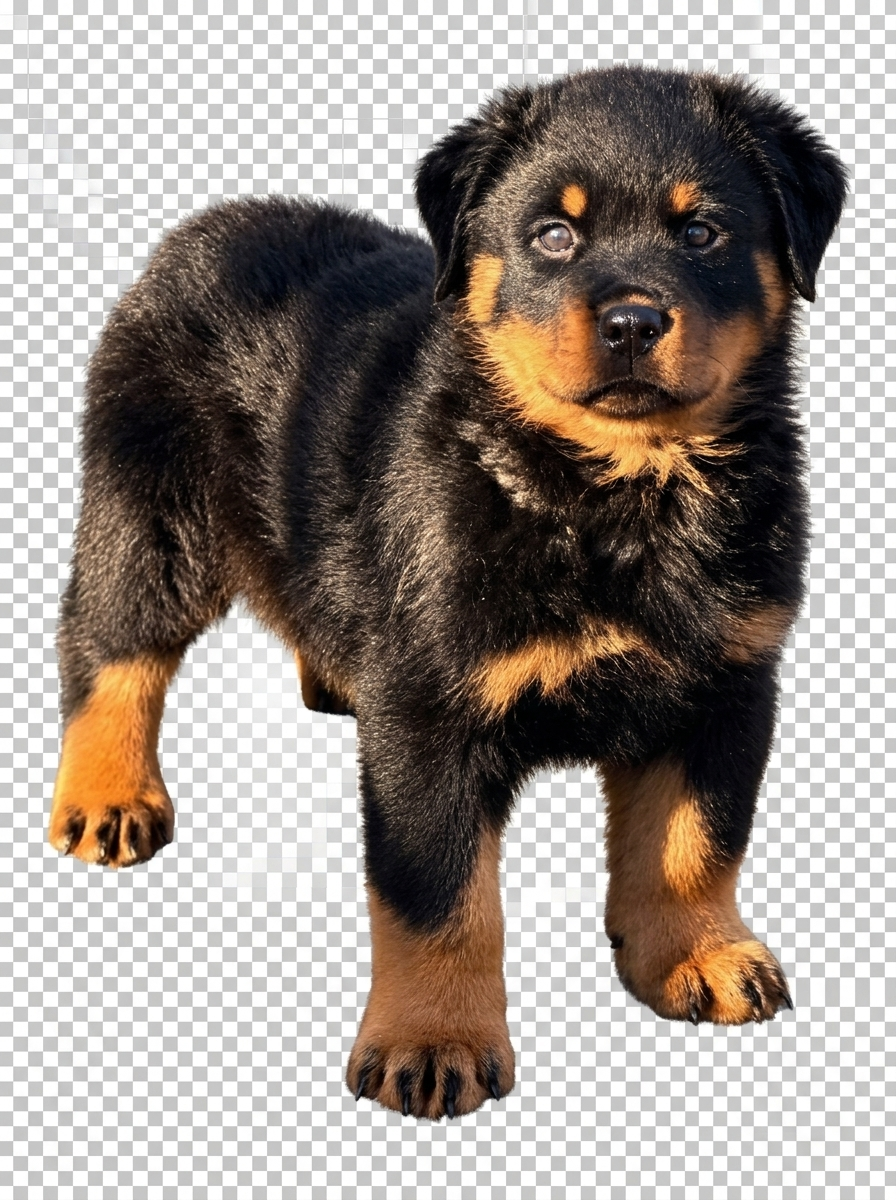
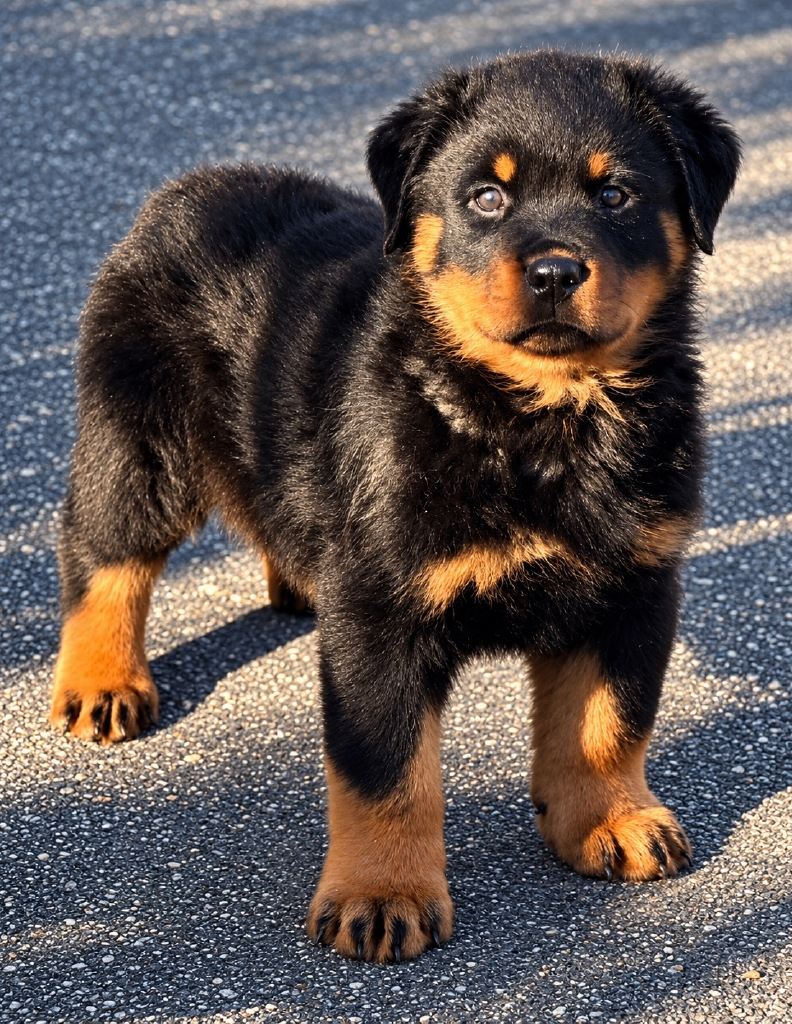
fix: use original hero photo with CSS gradient blending to remove bg visually

diff --git a/src/components/Hero.jsx b/src/components/Hero.jsx
@@ -29,11 +29,15 @@ export default function Hero() {
         .hero-dog {
           position: absolute; top: 0; right: 0;
           height: 100%; width: 100%;
-          object-fit: contain; object-position: center bottom;
+          object-fit: cover; object-position: center top;
         }
         .hero-img-fade {
           position: absolute; inset: 0; pointer-events: none;
-          background: linear-gradient(to right, var(--background) 0%, rgba(31,31,31,0.7) 10%, transparent 20%);
+          background:
+            linear-gradient(to right,  var(--background) 0%, rgba(10,10,10,0.85) 12%, transparent 30%),
+            linear-gradient(to left,   var(--background) 0%, rgba(10,10,10,0.6) 8%,  transparent 22%),
+            linear-gradient(to bottom, var(--background) 0%, rgba(10,10,10,0.5) 6%,  transparent 18%),
+            linear-gradient(to top,    var(--background) 0%, rgba(10,10,10,0.9) 14%, transparent 30%);
         }
         .hero-stats {
           display: grid; grid-template-columns: repeat(4,1fr); gap: 1.5rem;
@@ -67,7 +71,11 @@ export default function Hero() {
             object-fit: contain;
           }
           .hero-img-fade {
-            background: linear-gradient(to top, var(--background) 0%, rgba(31,31,31,0.4) 15%, transparent 35%);
+            background:
+              linear-gradient(to top,    var(--background) 0%, rgba(10,10,10,0.9) 15%, transparent 35%),
+              linear-gradient(to bottom, var(--background) 0%, rgba(10,10,10,0.5) 8%,  transparent 20%),
+              linear-gradient(to left,   var(--background) 0%, rgba(10,10,10,0.5) 8%,  transparent 20%),
+              linear-gradient(to right,  var(--background) 0%, rgba(10,10,10,0.5) 8%,  transparent 20%);
           }
           .hero-stats {
             grid-template-columns: repeat(2,1fr);
@@ -94,16 +102,18 @@ export default function Hero() {
           .hero-dog-mobile-img {
             width: 100%;
             height: 100%;
-            object-fit: contain;
-            object-position: center center;
-            transform: scale(1.5);
-            transform-origin: center center;
+            object-fit: cover;
+            object-position: center top;
           }
           .hero-mobile-img-fade {
             position: absolute;
             inset: 0;
             pointer-events: none;
-            background: linear-gradient(to top, var(--background) 0%, rgba(31,31,31,0.2) 10%, transparent 30%);
+            background:
+              linear-gradient(to top,    var(--background) 0%, rgba(10,10,10,0.9) 15%, transparent 35%),
+              linear-gradient(to bottom, var(--background) 0%, rgba(10,10,10,0.5) 8%,  transparent 20%),
+              linear-gradient(to left,   var(--background) 0%, rgba(10,10,10,0.5) 8%,  transparent 20%),
+              linear-gradient(to right,  var(--background) 0%, rgba(10,10,10,0.5) 8%,  transparent 20%);
           }
           .hero-image-col {
             display: none;
